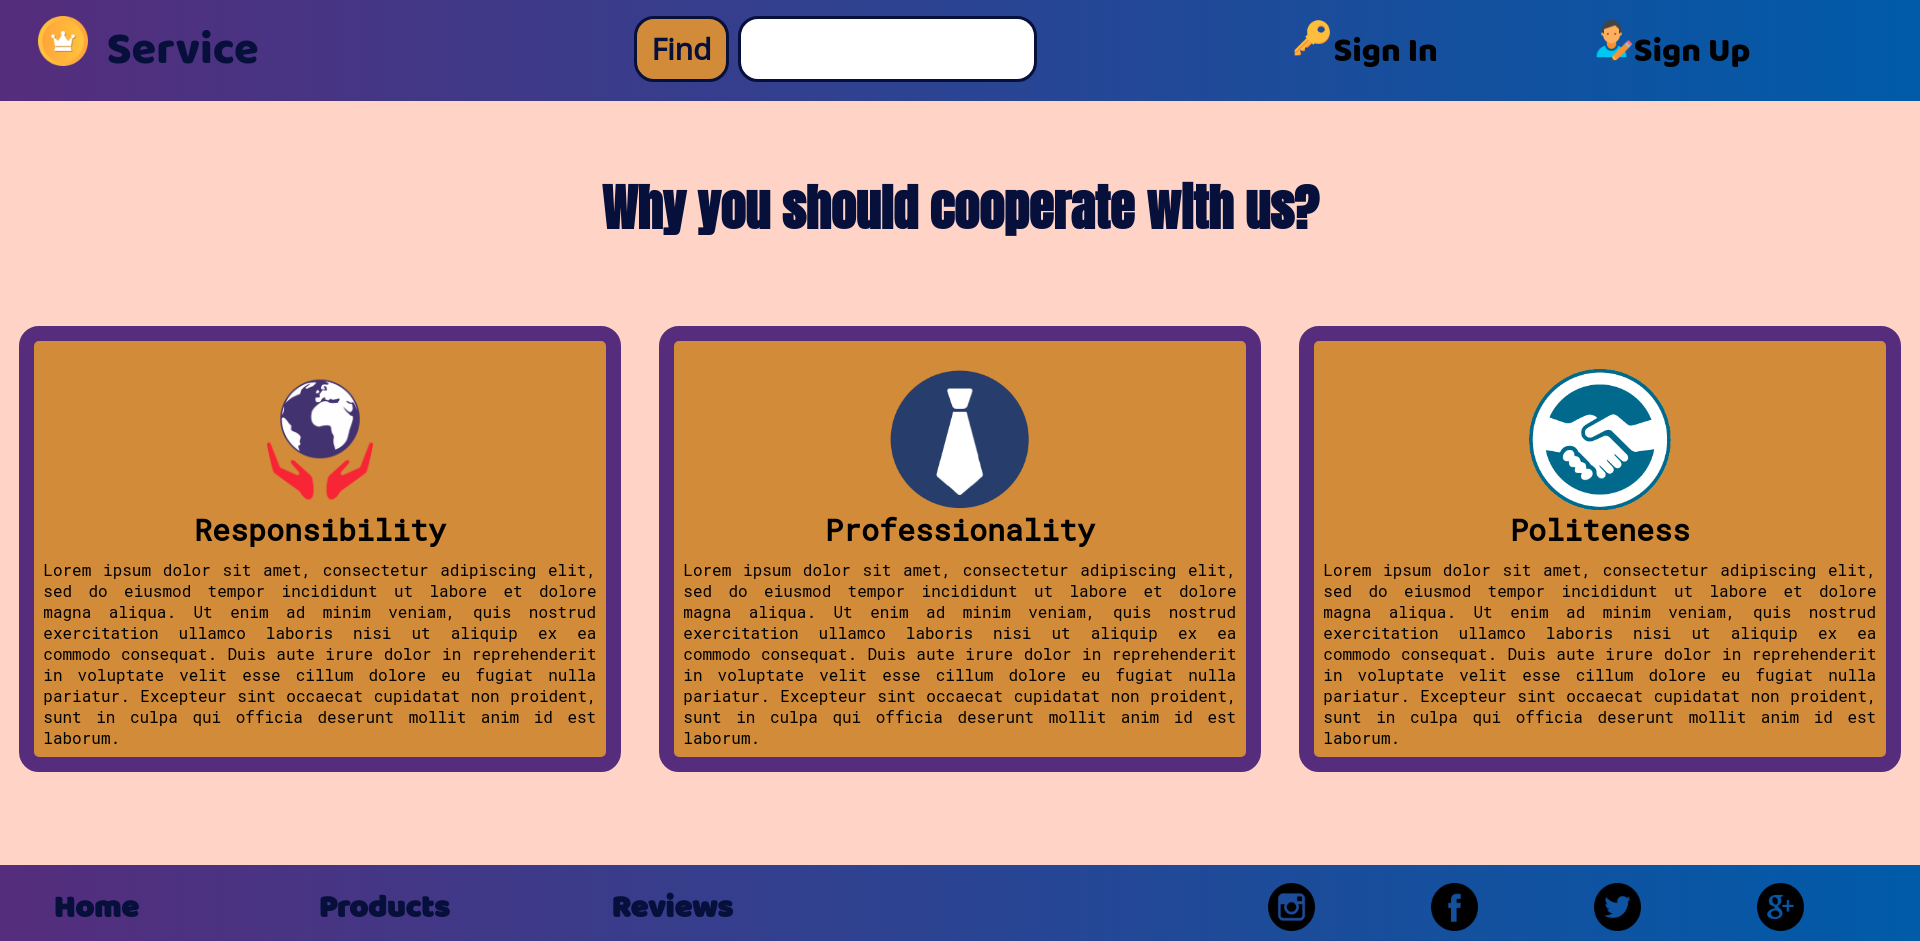
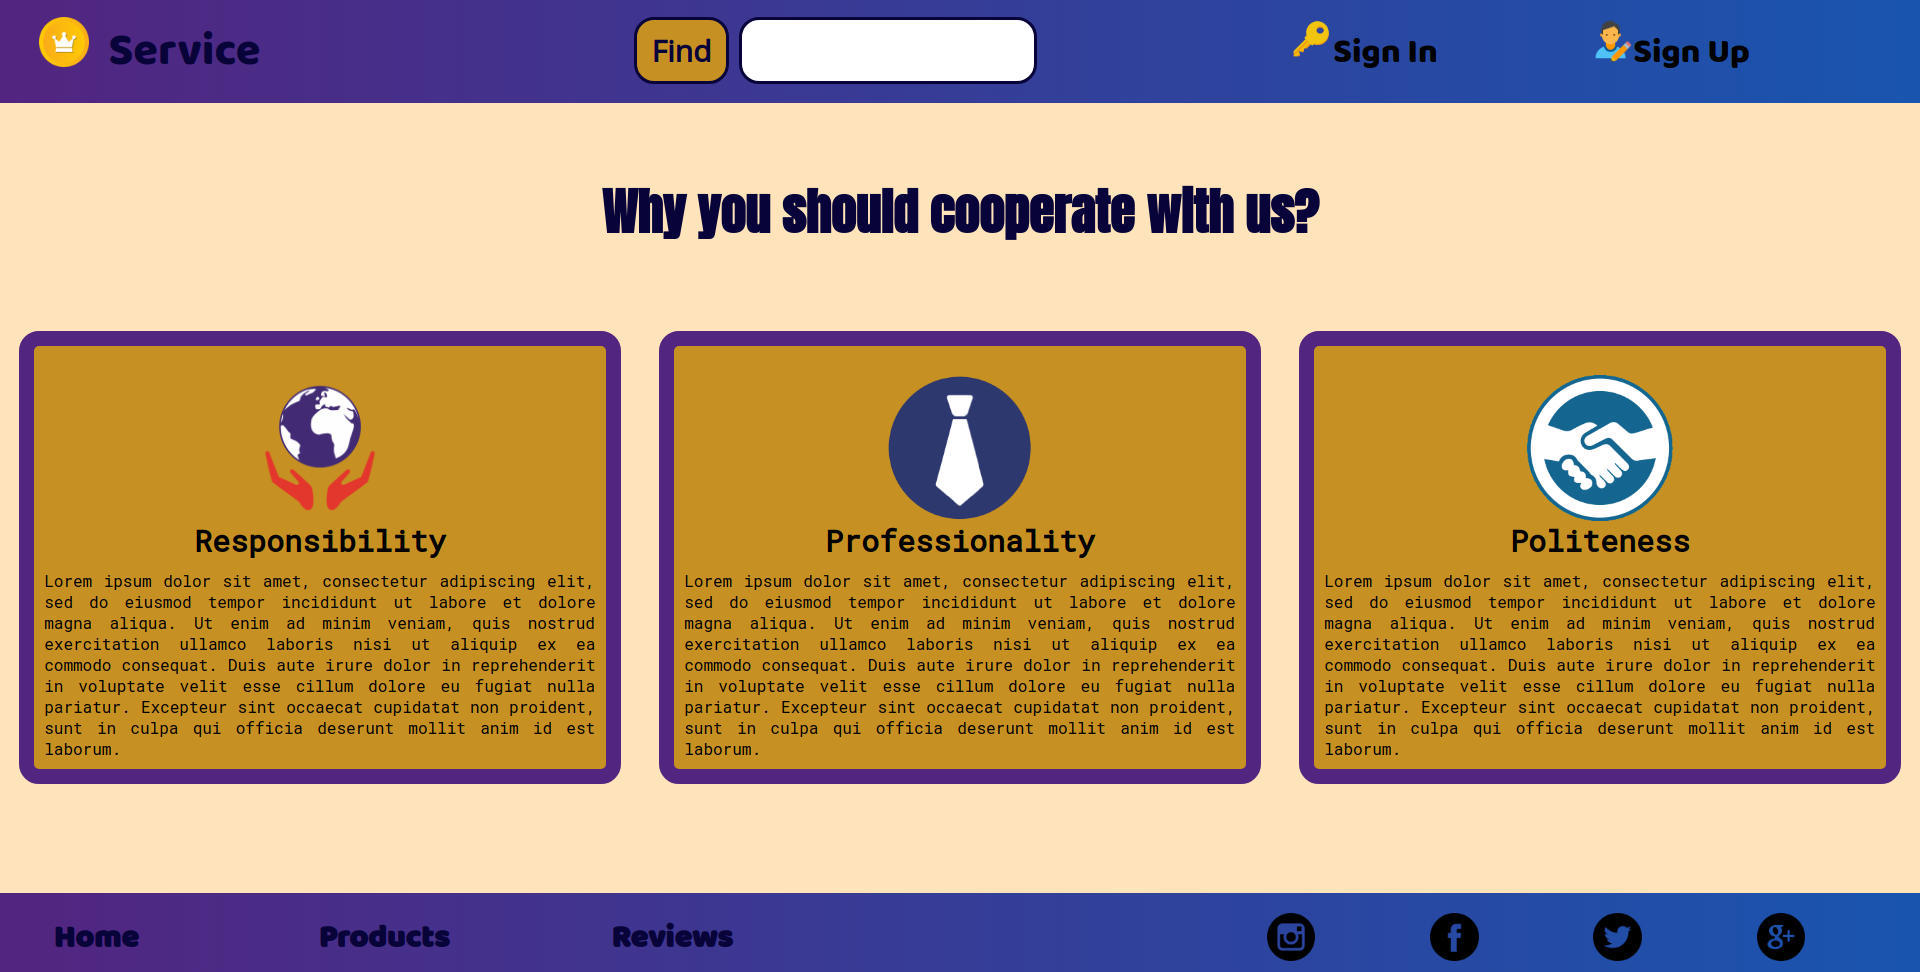
background fix

diff --git a/src/containers/Main/Main.css b/src/containers/Main/Main.css
@@ -3,7 +3,7 @@ main {
     width: 100%;
     grid-row: 2/3;
     grid-column: 1/4;
-    background-color: #ffd7c6;
+    background-color: #ffe4bb;
 }
 
 .main__posts {
